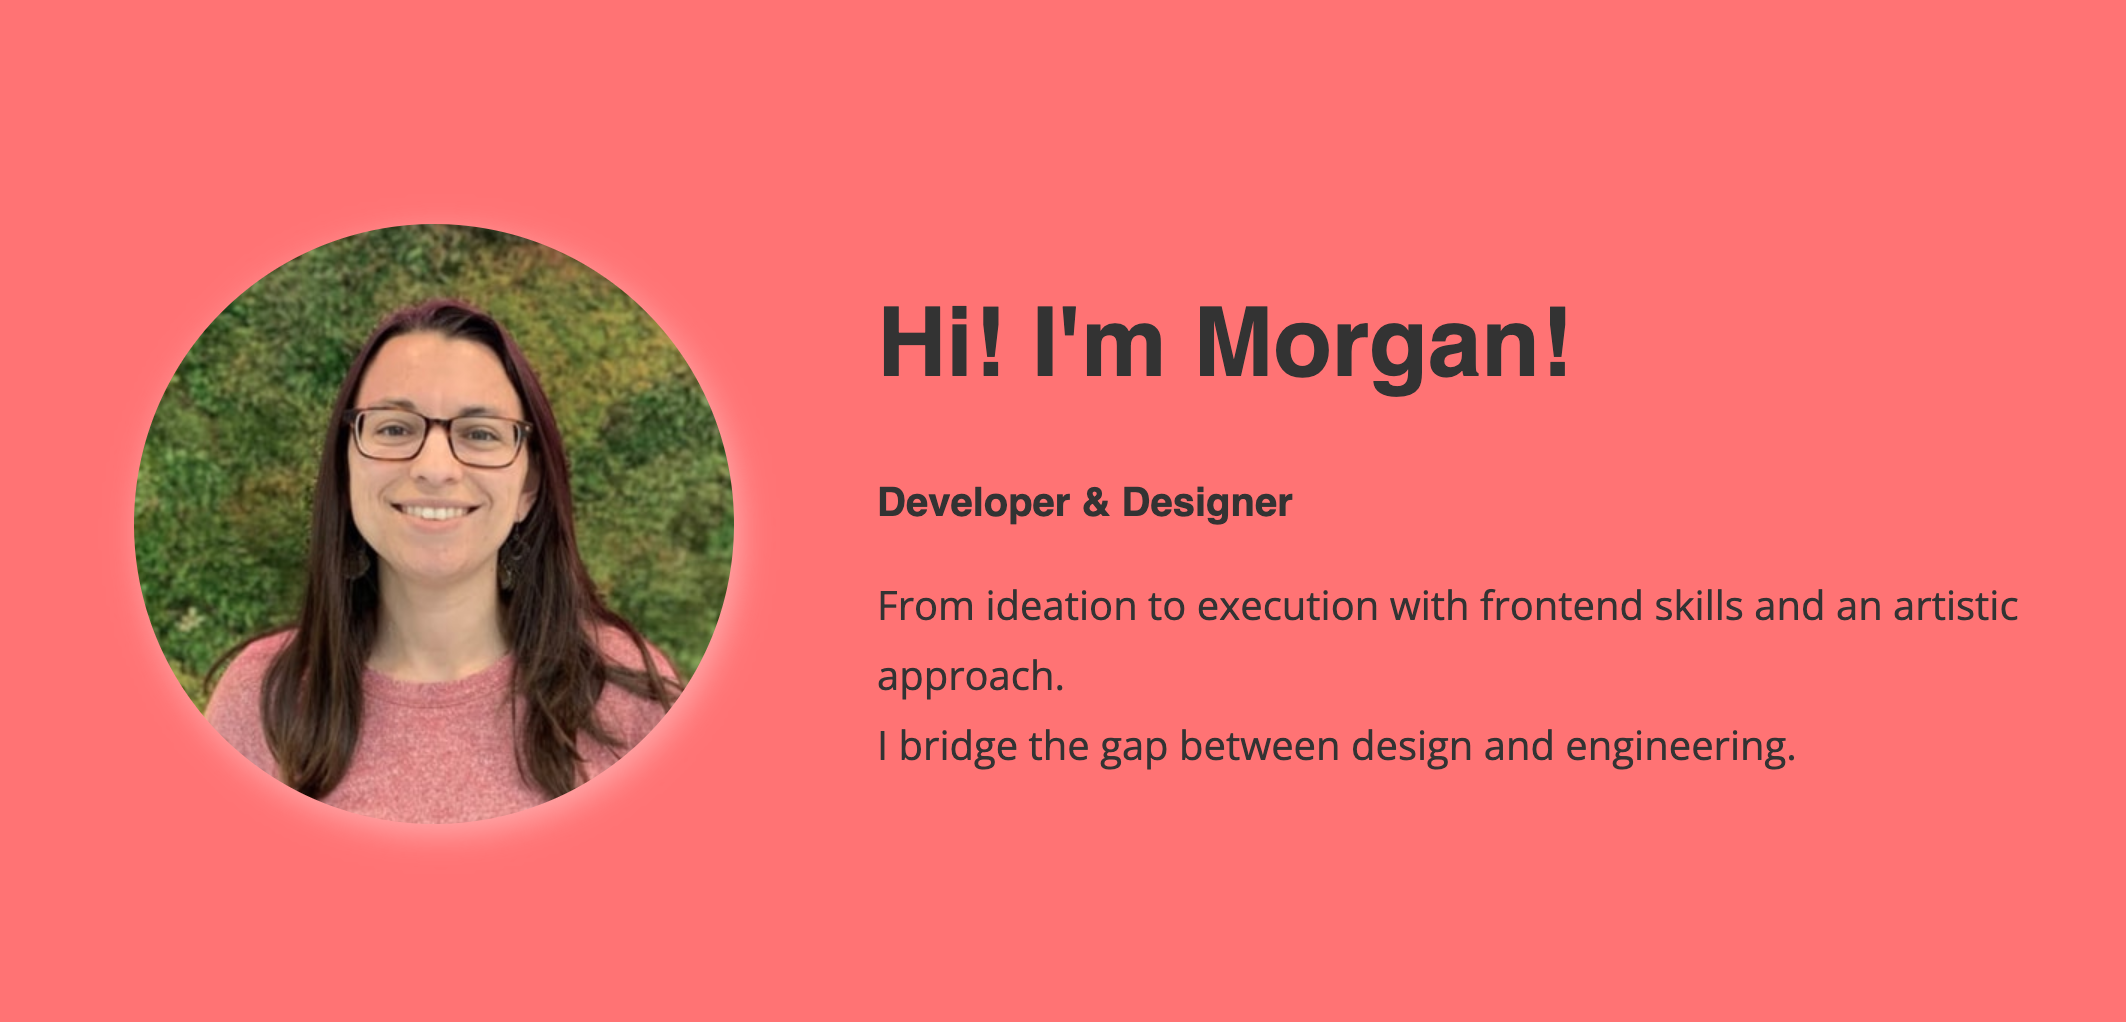
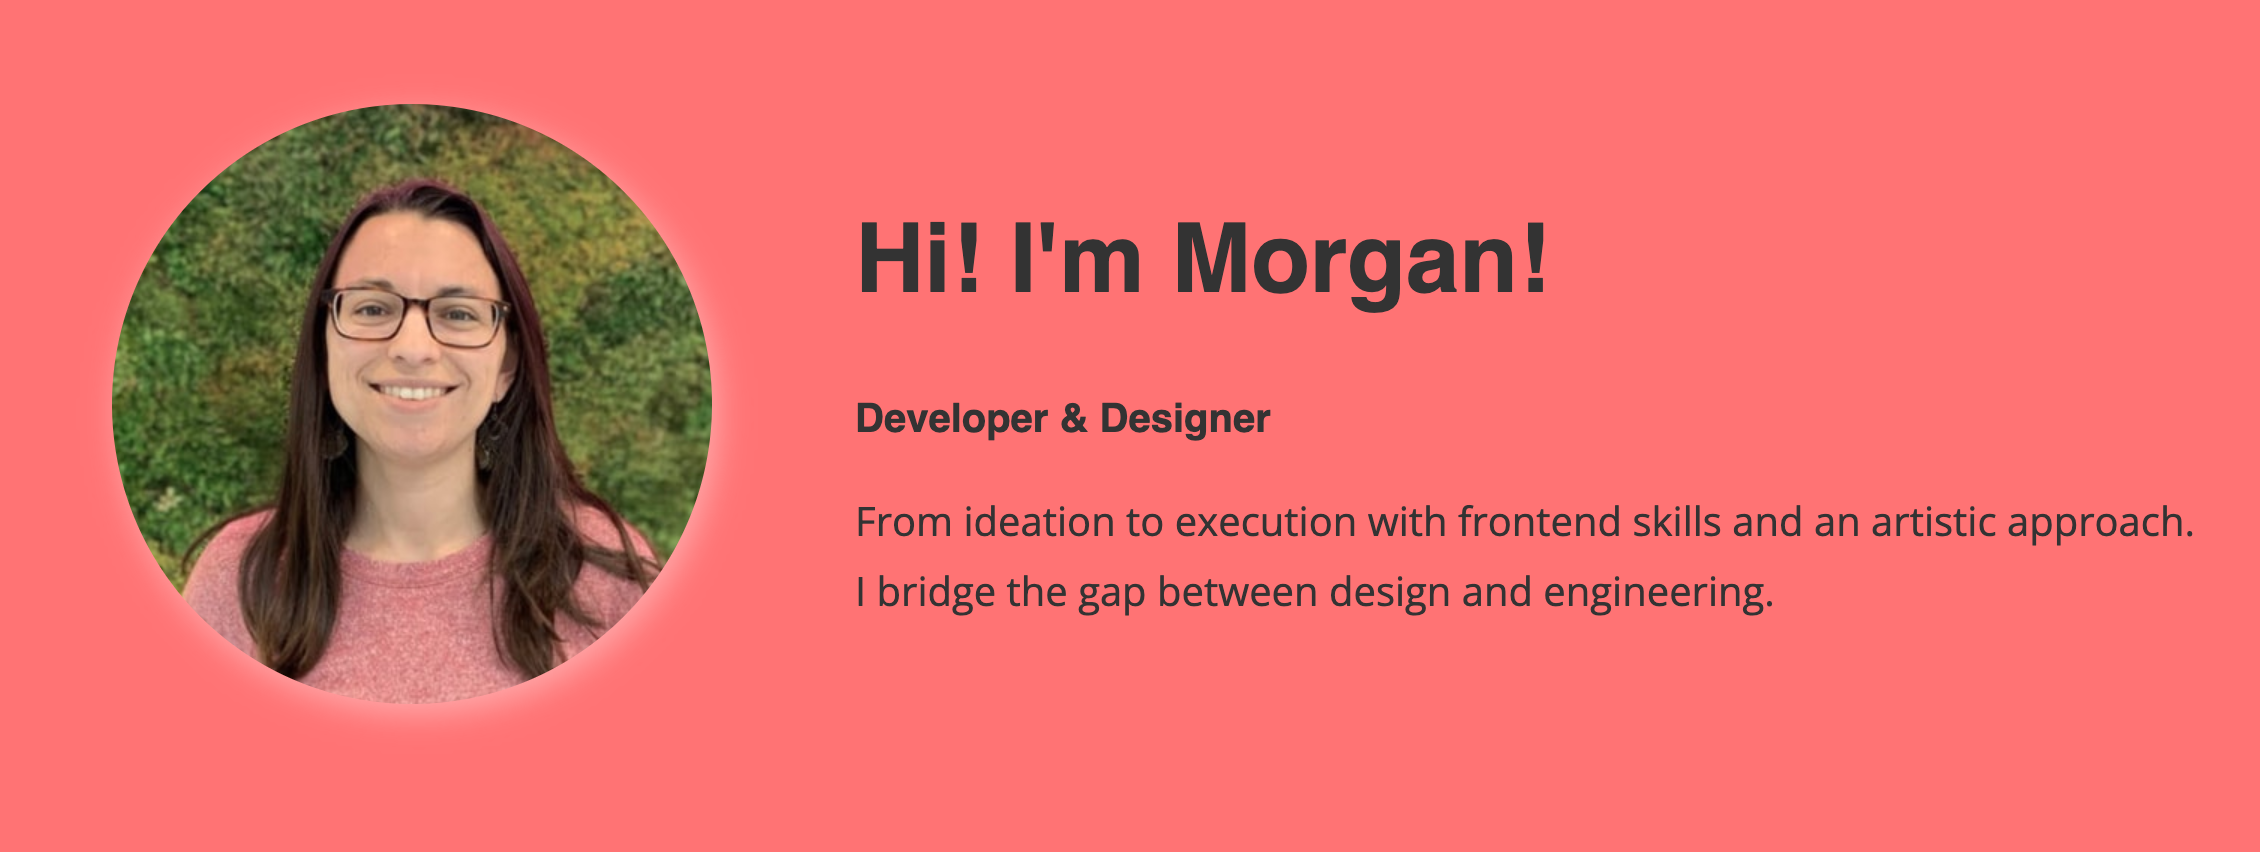
updates

Changed region(s): [[0.031, 0.1221, 0.6209, 0.8545], [0.3725, 0.5798, 0.9624, 0.7629], [0.3725, 0.2441, 0.7451, 0.3967]]

diff --git a/src/scss/components/_hero.scss b/src/scss/components/_hero.scss
@@ -37,7 +37,7 @@
   }
 
   & > :last-child {
-    max-width: 650px;
+    max-width: 670px;
     width: 100%;
 
     @media screen and (max-width: 1117px) {
